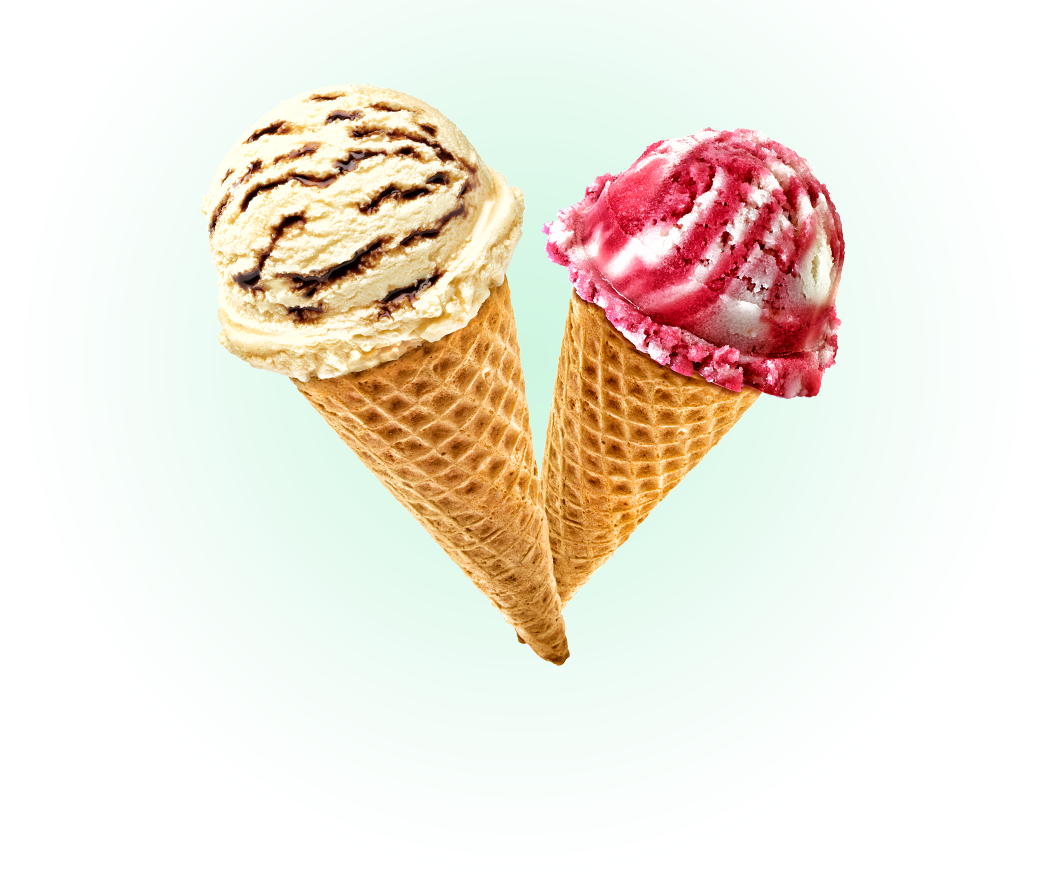
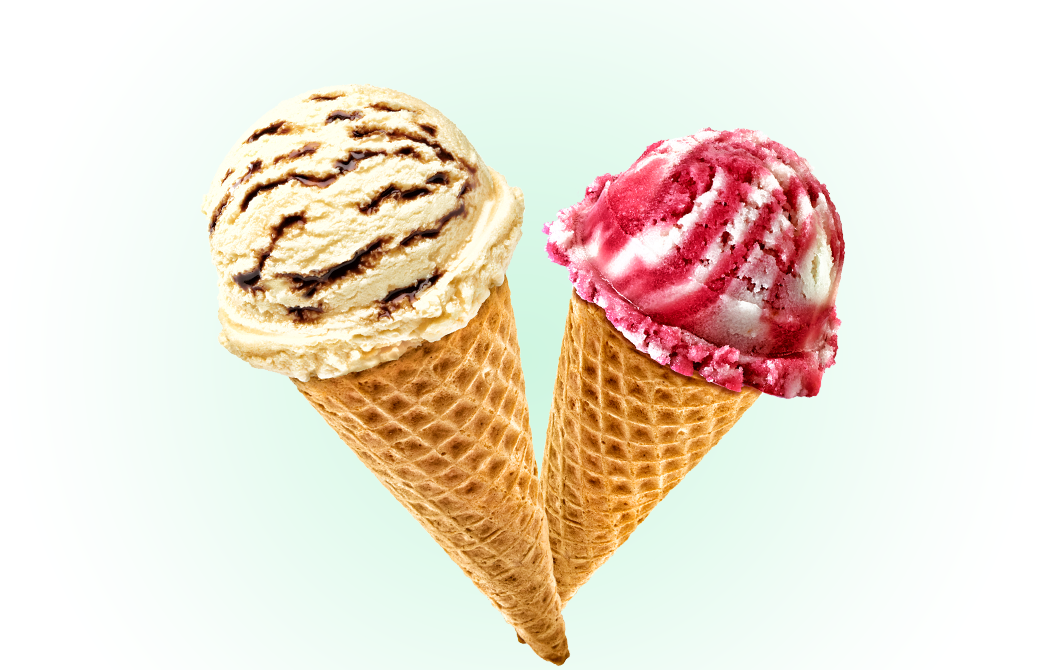
Закончены 2 блока, начат 3

Changed region(s): [[0.1837, 0.0896, 0.8268, 1.0]]

diff --git a/css/styles.css b/css/styles.css
@@ -38,6 +38,11 @@ html {
     box-shadow: 0px 2px 2px 0px rgba(172, 16, 0, 0.64);
     border: none;
     font-weight: bold;
+    text-shadow: 0px 2px 5px rgba(160, 32, 11, 0.76);
+    -moz-transform: matrix( 1.04013375779322,0,0,1.04013375779322,0,0);
+    -webkit-transform: matrix( 1.04013375779322,0,0,1.04013375779322,0,0);
+    -ms-transform: matrix( 1.04013375779322,0,0,1.04013375779322,0,0);
+    color: #ffffff;
 }
 
 .button:hover {
@@ -50,7 +55,7 @@ html {
     background-image: -moz-linear-gradient( 90deg, rgb(242,104,67) 0%, rgb(231,74,53) 100%);
     background-image: -webkit-linear-gradient( 90deg, rgb(242,104,67) 0%, rgb(231,74,53) 100%);
     background-image: -ms-linear-gradient( 90deg, rgb(242,104,67) 0%, rgb(231,74,53) 100%);
-    box-shadow: inset 0px 2px 2px 0px rgba(148, 39, 24, 0.4);
+    box-shadow: inset 0px 2px 2px 0px rgba(148, 39, 24, 0.5);
 }
 
 .shadow {
@@ -403,7 +408,7 @@ html {
     background-repeat: no-repeat;
     background-position: 55% 45%;
     background-color: #849d8f;
-    height: 881px;
+    height: 670px;
 
 }
 
@@ -430,10 +435,91 @@ html {
     font-size: 30.765px;
     line-height: 1.375;
     text-align: center;
-    text-shadow: 0px 2px 5px rgba(160, 32, 11, 0.76);
-    -moz-transform: matrix( 1.04013375779322,0,0,1.04013375779322,0,0);
-    -webkit-transform: matrix( 1.04013375779322,0,0,1.04013375779322,0,0);
-    -ms-transform: matrix( 1.04013375779322,0,0,1.04013375779322,0,0);
 }
 
-  
+
+
+.main-advertising ul {
+    display: flex;
+    padding: 0;
+    list-style: none;
+    margin: 0;
+    margin-bottom: 39px;
+}  
+
+.main-advertising li {
+    width: 560px;
+    height: 230px;
+    border-radius: 15px;
+    padding-left: 20px;
+    position: relative;
+}
+
+.main-advertising h4 {
+    font-size: 35px;
+    padding-top: 21px;
+    line-height: 35px;
+    margin-block-start: 0px;
+    margin-block-end: 0px;
+}
+
+.main-advertising p {
+    font-size: 18px;
+    line-height: 22px;
+    margin-top: 21px;
+}
+
+.main-advertising li:first-child {
+    background-image: url(../img/raspberries.png);
+    background-repeat: no-repeat;
+    margin-right: 26px;
+}
+
+.main-advertising li:nth-child(2) {
+    background-image: url(../img/chocolate.png);
+    background-repeat: no-repeat;
+}
+
+.main-advertising button {
+    position: absolute;
+    font-size: 18px;
+    width: 166px;
+    height: 46px;
+    border-radius: 23px;
+    bottom: 25px;
+    right: 22px;
+}
+
+
+
+.main-items ul {
+    display: flex;
+    padding: 0;
+    margin: 0;
+    text-decoration: none;
+    height: 340px;
+}
+
+.main-items li {
+    display: flex;
+    width: 267px;
+    margin-right: 26px;
+    position: relative;
+}
+
+.main-items img {
+    width: 267px;
+    height: 267px;
+}
+
+.main-items li:last-child {
+    margin-right: 0px;
+}
+
+.main-items a {
+    font-size: 16px;
+    position: absolute;
+    top: 283px;
+    text-align: center;
+    color: #ffffff;
+}

diff --git a/index.html b/index.html
@@ -66,7 +66,40 @@
 
     <section class="main-slider">
       <h3>Крем-брюле и пломбир <br> с малиновым джемом</h3>
-      <button class="button" >Давайте оба!</button>
+      <button class="button">Давайте оба!</button>
+    </section>
+    <section class="main-advertising">
+    <ul>
+      <li>
+        <h4>Малинки даром!</h4>
+        <p>При покупке 2 кг любого фруктового мороженого, добавим в ваш заказ банку малинового варенья бесплатно.
+        </p>
+        <button class="button" >Хочу варенье!</button>
+      </li>
+      <li>
+        <h4>Шоколадки даром!</h4>
+        <p>При покупке 2 кг пломбира, добавим в ваш заказ упаковку вкуснейшей шоколадной присыпки совершенно бесплатно.
+        </p>
+        <button class="button" >Хочу шоколадки!</button>
+      </li>
+    </ul>
+    </section>
+    <section class="main-items">
+      <ul>
+        <li><img src="img/items/main-item1.png" alt="">
+        <a href="#">Сливочное с апельсиновым джемом и цитрусовой стружкой</a>
+        </li>
+        <li><img src="img/items/main-item2.png" alt="">
+        <a href="#">Сливочно-кофейное с кусочками шоколада</a>
+        </li>
+        <li><img src="img/items/main-item3.png" alt="">
+        <a href="#">Сливочно-клубничное с присыпкой из белого шоколада</a>
+        </li>
+        <li><img src="img/items/main-item4.png" alt="">
+        <a href="#">Сливочное крем-брюле с карамельной подливкой</a>
+        </li>
+      </ul>
+    </section>
 
   </main>
 </body>
